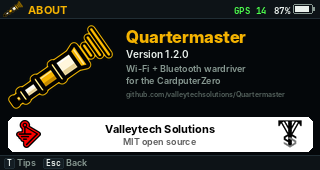
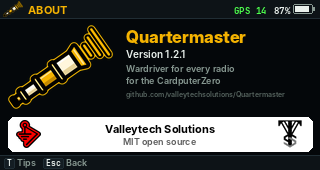
Quartermaster 1.2.1

Changed region(s): [[0.4062, 0.3824, 0.7812, 0.4412], [0.5625, 0.2941, 0.5938, 0.3529]]

diff --git a/quartermaster/ui/screens.py b/quartermaster/ui/screens.py
@@ -1803,7 +1803,7 @@ class About(Screen):
         c.paste(image("quartermaster-logo-dark.png", (120, 84)), (8, TOP + 3))
         c.text((126, TOP + 4), "Quartermaster", font("display", 17), GOLD)
         c.text((126, TOP + 26), "Version %s" % __version__, font("ui", 10), TEXT)
-        c.text((126, TOP + 41), "Wi-Fi + Bluetooth wardriver", font("ui", 9), MUTED)
+        c.text((126, TOP + 41), "Wardriver for every radio", font("ui", 9), MUTED)
         c.text((126, TOP + 53), "for the CardputerZero", font("ui", 9), MUTED)
         c.text((126, TOP + 68), REPO, font("ui", 7), FAINT)
         y = CONTENT_BOTTOM - 37

diff --git a/quartermaster/__init__.py b/quartermaster/__init__.py
@@ -1,4 +1,4 @@
 """Quartermaster: Wi-Fi and Bluetooth wardriver for the M5Stack CardputerZero."""
 
-__version__ = "1.2.0"
+__version__ = "1.2.1"
 APP_NAME = "Quartermaster"

diff --git a/README.md b/README.md
@@ -429,7 +429,7 @@ Everything is kept in the `quartermaster` folder in your home directory.
 Every log starts with a header that names the app:
 
 ```
-WigleWifi-1.6,appRelease=Quartermaster 1.2.0,model=CardputerZero,release=...,device=Quartermaster,display=320x170,board=M5Stack CardputerZero,brand=Valleytech Solutions,star=Sol,body=3,subBody=0
+WigleWifi-1.6,appRelease=Quartermaster 1.2.1,model=CardputerZero,release=...,device=Quartermaster,display=320x170,board=M5Stack CardputerZero,brand=Valleytech Solutions,star=Sol,body=3,subBody=0
 ```
 
 By default each device has at most two rows in a log: its strongest sighting, the closest pass, and its weakest, the far edge of its range, each with its own position and time. A weak sighting below -92 dBm, or with a position less sure than 25 m, is not used as the far edge. One row is written when there is nothing better. Until the wardrive stops, the rows wait in a hidden file next to the log, so the log appears in Logs and goes to the upload sites once the wardrive stops. After a crash or a power cut, Quartermaster finishes that log the next time it opens.

diff --git a/CHANGELOG.md b/CHANGELOG.md
@@ -1,5 +1,9 @@
 # Changelog
 
+## 1.2.1
+
+The AppStore listing and the About screen now name every radio Quartermaster uses. Nothing else changes.
+
 ## 1.2.0
 
 LoRa mesh nodes from the Cap LoRa-1262, and aircraft that start by themselves.
